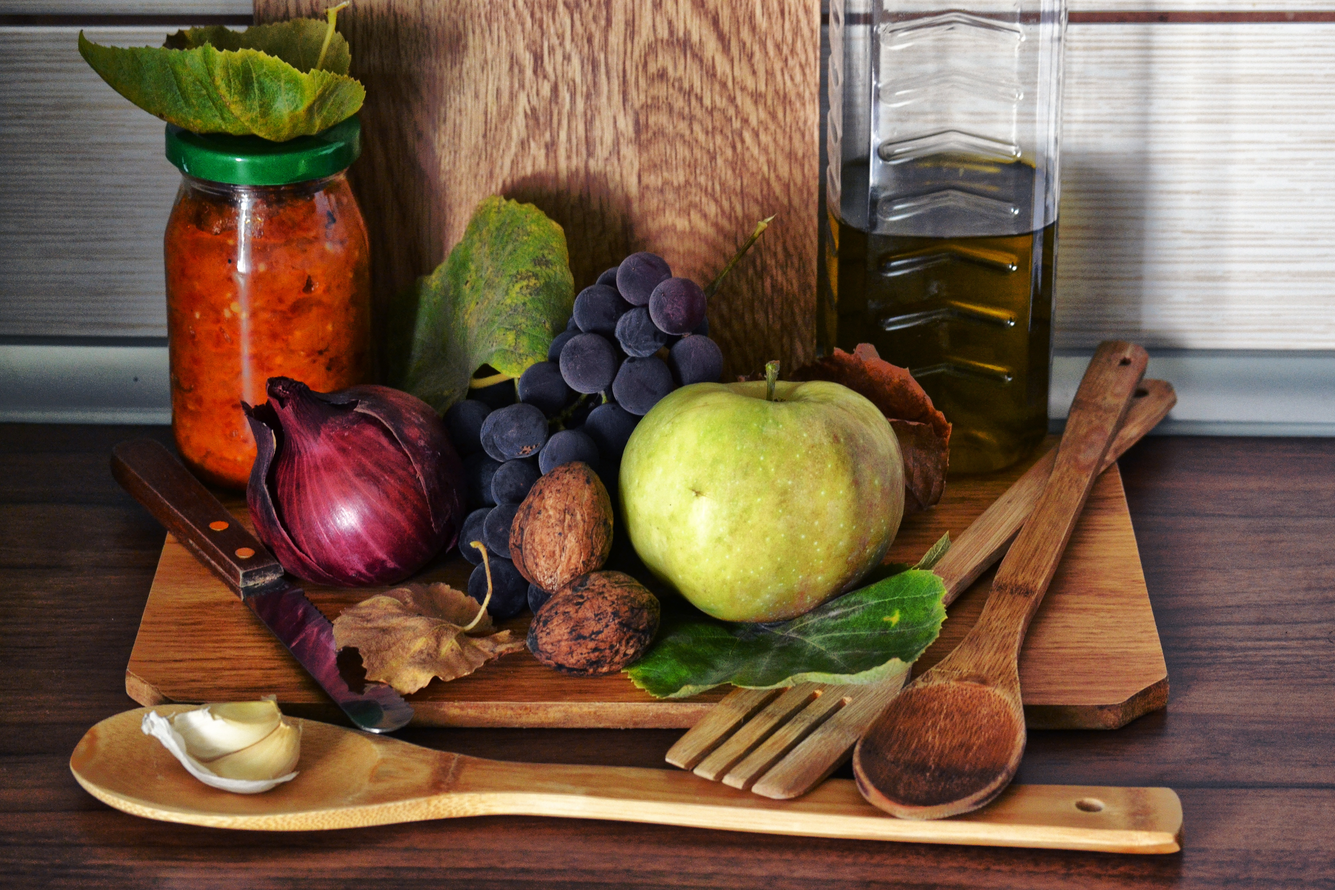
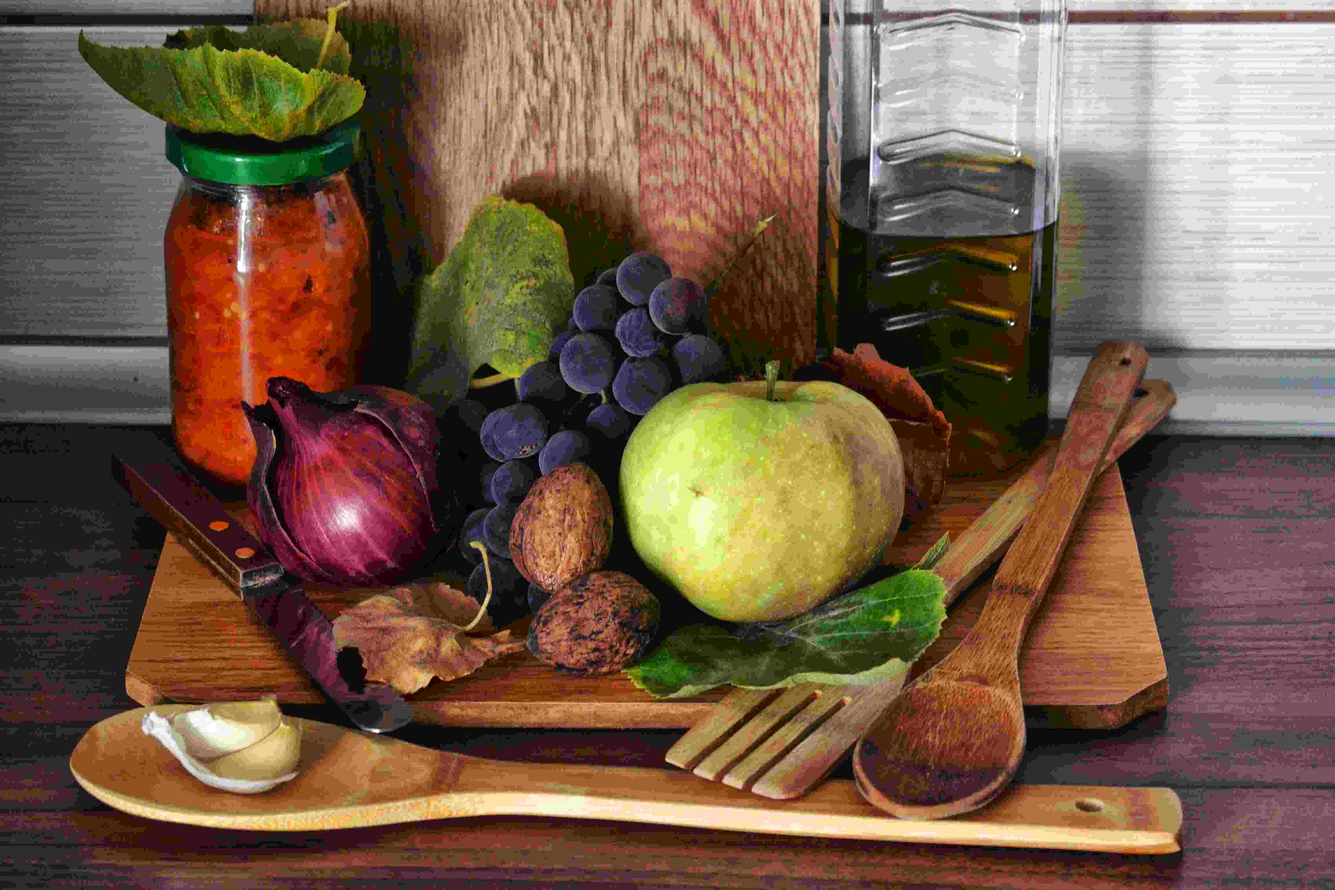
Compressed photos to speed up page load times

diff --git a/index.html b/index.html
@@ -47,7 +47,7 @@
             </div>
             <div class="col-8">
                 <div class="card dish-of-day">
-                    <img src="assets/images/starter/avocado-salad.jpg" class="card-img-top" alt="...">
+                    <img src="assets/images/starter/avocado-salad-starter.jpg" class="card-img-top" alt="...">
                     <div class="card-body">
                         <h5 class="">Avocado Salad</h5>
                         <p class="card-text">This light yet satisfying dish is the perfect way to start a meal, easy on the eyes and just enough to ready you for the main.</p>
@@ -65,8 +65,8 @@
                 <div class="card dish-of-day">
                     <img src="assets/images/dessert/raspberry-dessert.jpg" class="card-img-top" alt="...">
                     <div class="card-body">
-                        <h5 class="">Avocado Salad</h5>
-                        <p class="card-text">This light yet satisfying dish is the perfect way to start a meal, easy on the eyes and just enough to ready you for the main.</p>
+                        <h5 class="">Raspberry Pancakes</h5>
+                        <p class="card-text">A perfect way to finish of any meal, easy to make but always goes down a treat. You can make as many or as few as you want.</p>
                         <a href="#" class="btn btn-outline-info">Full Recipe</a>
                     </div>
                 </div>
